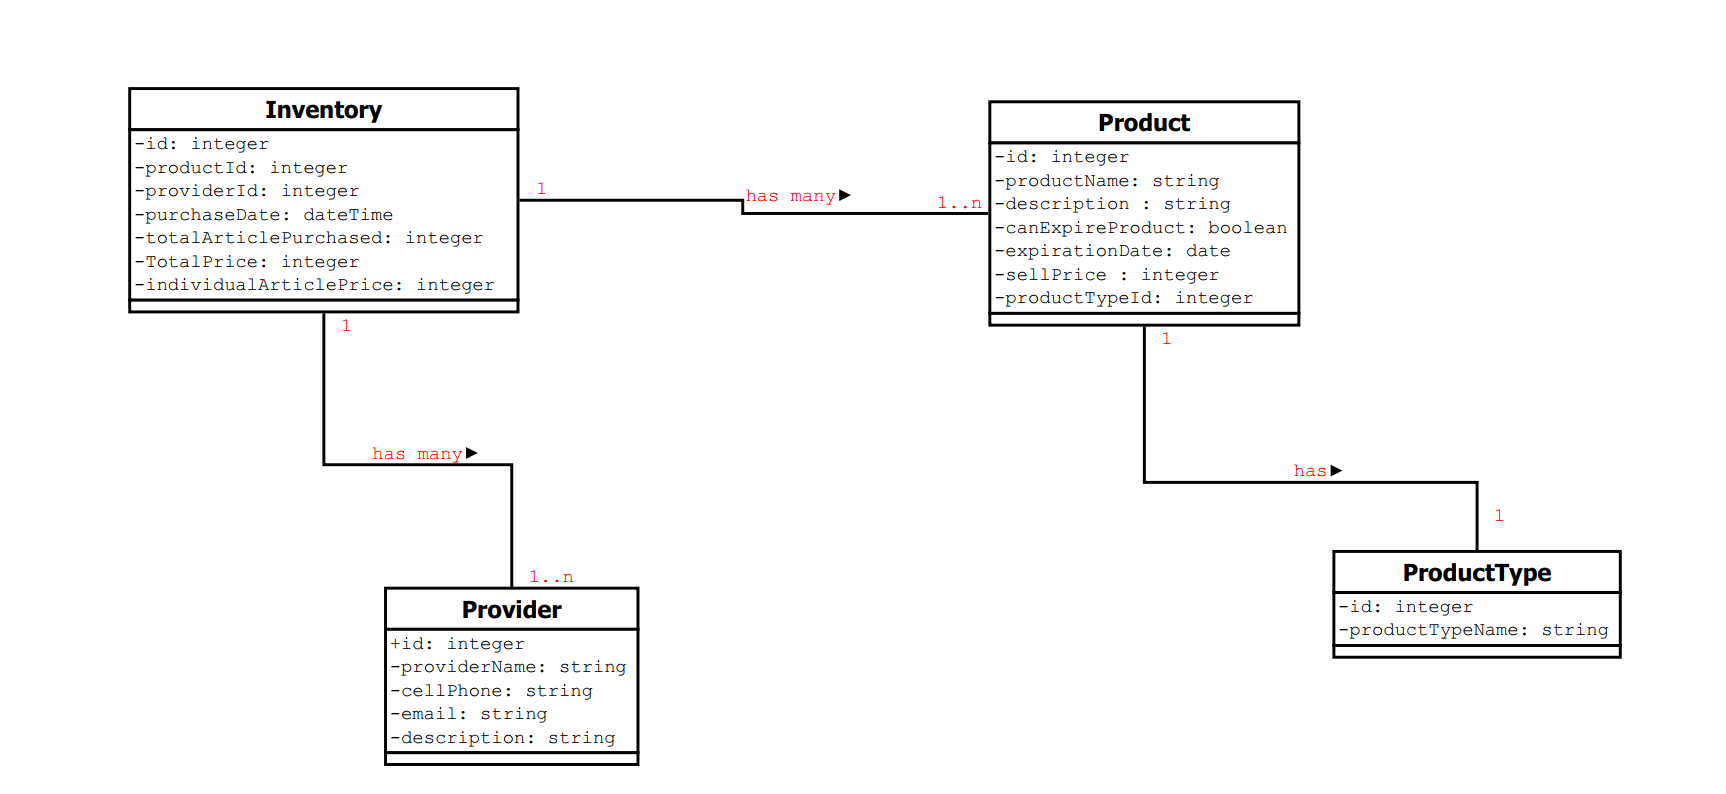
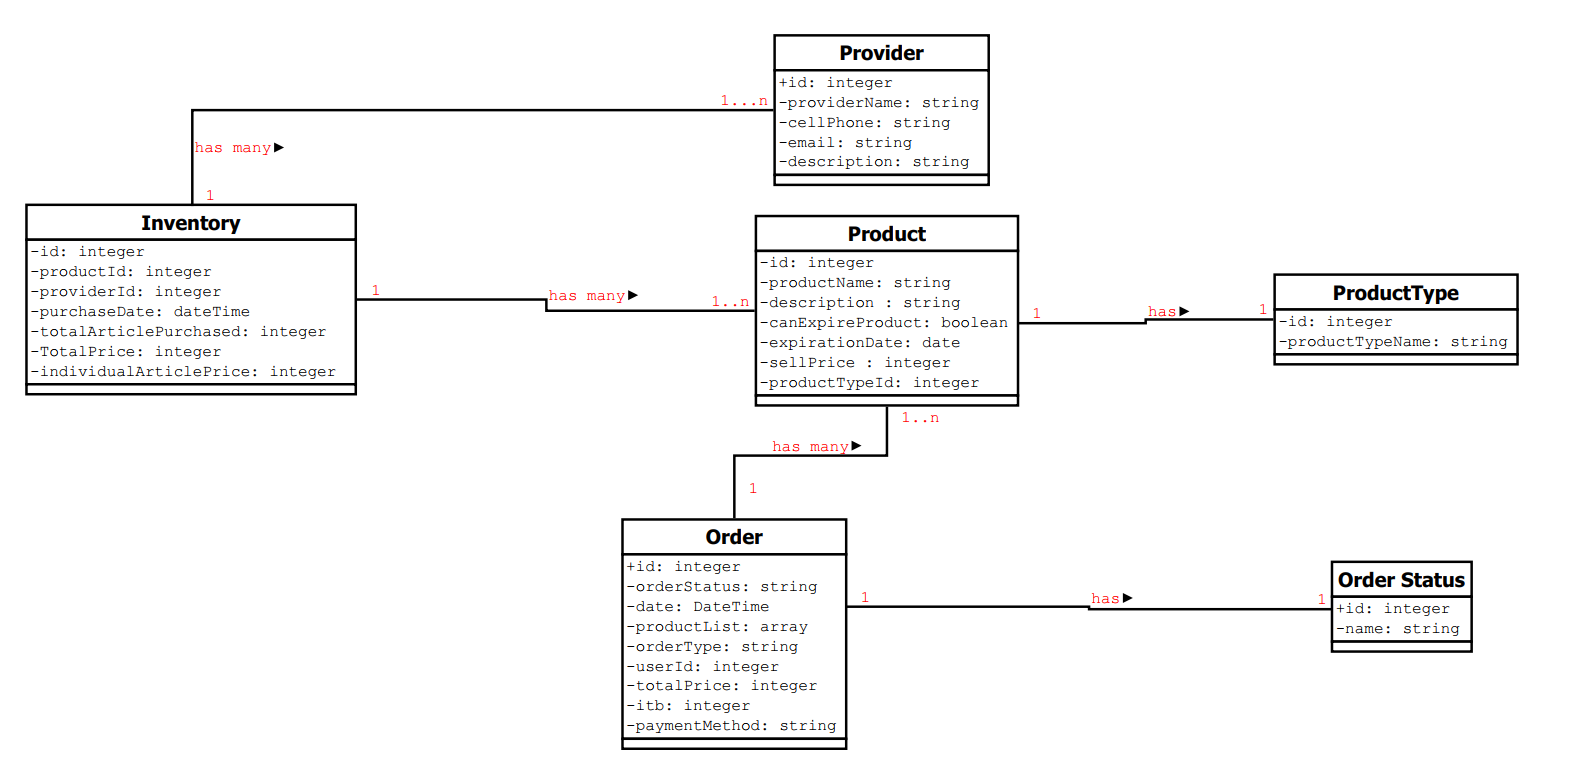
creating order and order status entity

diff --git a/src/entities/order.entity.js b/src/entities/order.entity.js
@@ -1,0 +1,28 @@
+export default class Order {
+  //integer
+  id;
+
+  //string
+  orderStatus;
+
+  //dateTime
+  date;
+
+  //array
+  productList;
+
+  //string
+  orderType;
+
+  //integer
+  userId;
+
+  //string
+  paymentMethod;
+
+  //array
+  itb;
+
+  //integer
+  totalPrice;
+}

diff --git a/src/entities/orderStatus.entity.js b/src/entities/orderStatus.entity.js
@@ -1,0 +1,7 @@
+export default class OrderStatus {
+  //integer
+  id;
+
+  //string
+  name;
+}
